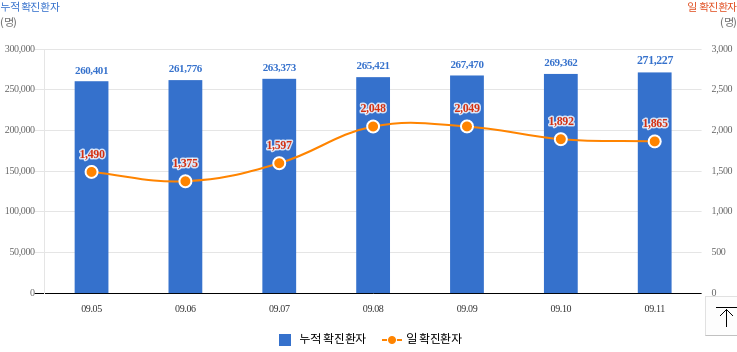
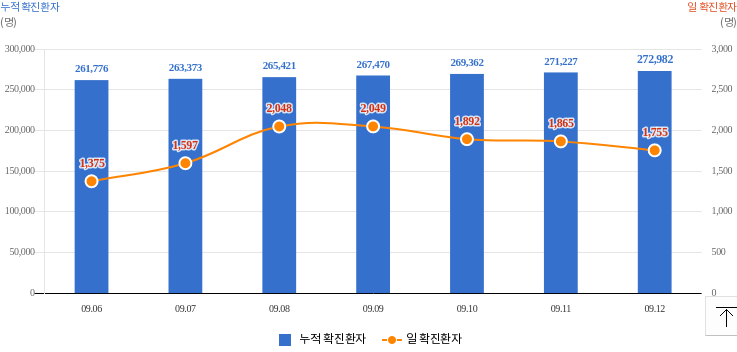
Run crawler and update current data

diff --git a/data.js b/data.js
@@ -7,7 +7,7 @@ var 검사중 = '1,342';
 var 검사결과 = '420,869';
 var 자가격리자 = '670';
 var 거리두기단계 = '사회적 거리두기  3단계 시행 : 2021.9.6.(월) 0시 ~ 10.3.(일) 24시';
-var 국내발생 = '1,816';
-var 해외발생 = '49';
-var 합계 = '1865';
+var 국내발생 = '1,725';
+var 해외발생 = '30';
+var 합계 = '1755';
 var data = [];
